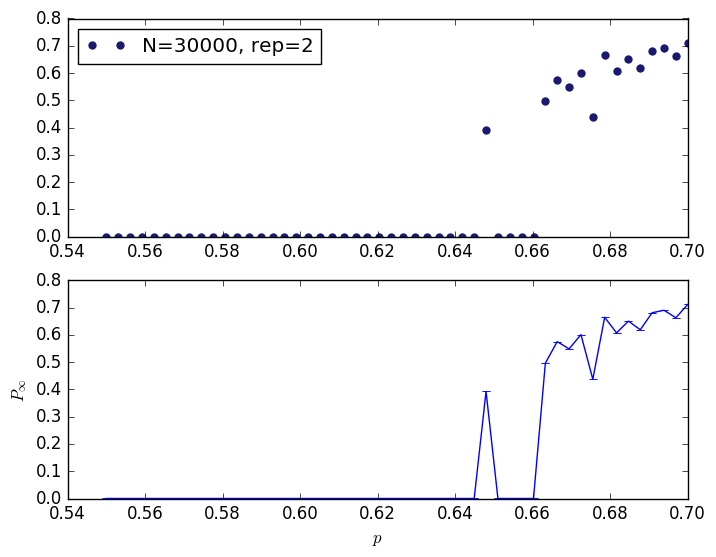
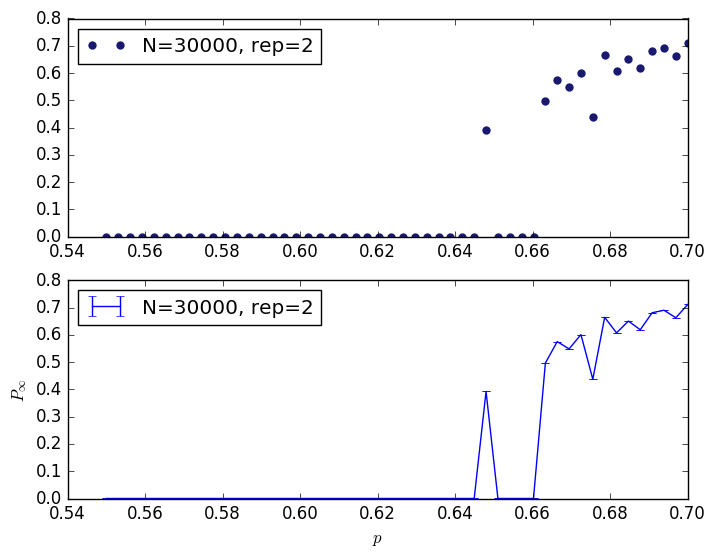
sfsfsfsf

Changed region(s): [[0.0922, 0.5189, 0.4609, 0.6104]]

diff --git a/code/pynet/plot_modified.py b/code/pynet/plot_modified.py
@@ -17,8 +17,9 @@ plt.legend(loc=2)
 
 plt.subplot(2, 1, 2)
 #plt.plot(data_n64000[:,0], data_n64000[:,1], 'o-', label='N = 64,000, avg = 1')
-#plt.legend(loc=2)
-plt.errorbar(data[:,0],data[:,1],yerr=data[:,2],xerr=None,linestyle='-')
+
+plt.errorbar(data[:,0],data[:,1],yerr=data[:,2],xerr=None,linestyle='-', label='N=30000, rep=2')
+plt.legend(loc=2)
 plt.xlabel(r'$p$')
 plt.ylabel(r'$P_\infty$')
 plt.savefig('../../plot/N30000_rep2_SF3.png', bbox_inches='tight')

diff --git a/code/pynet/main.py b/code/pynet/main.py
@@ -52,5 +52,10 @@ def main():
                 G.cascade()
                 fraction_list.append(G.frac_lmcc)
             f.write(str(1-p) + '\t{0.frac_lmcc}\n'.format(G))
+            f.write(str(1-p)
+                + '\t'
+                + '\t'.join(str(round(x, 4)) for x in fraction_list)
+                + '\n')
+
 if __name__ == "__main__":
     main()
